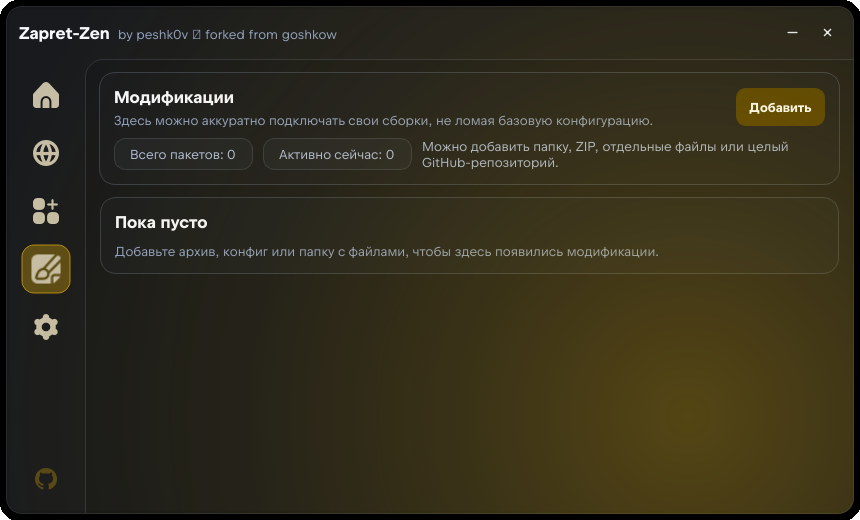
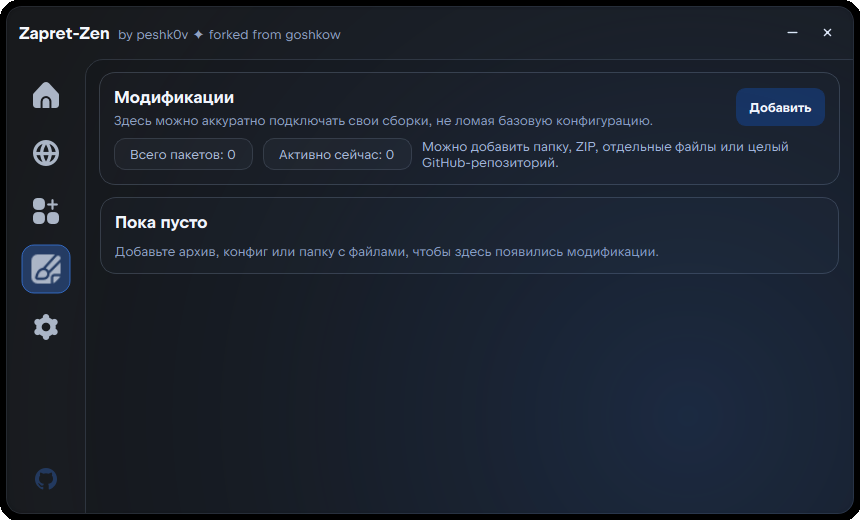
Исправлен баг с tg-ws-proxy и немного изменён README.md

diff --git a/scripts/take_screenshots.py b/scripts/take_screenshots.py
@@ -51,7 +51,7 @@ def main():
         return 1
 
     ctx.backend = None
-    ctx.settings.update(theme="light")
+    ctx.settings.update(theme="light", accent_color="#3b82f6")
 
     print("Creating MainWindow...")
     from zapret_zen.ui.main_window import MainWindow
@@ -97,8 +97,12 @@ def main():
             return
         theme = theme_queue.pop()
         print(f"\n=== Theme: {theme} ===")
-        ctx.settings.update(theme=theme)
+        ctx.settings.update(theme=theme, accent_color="#3b82f6")
         window._apply_theme()
+        if hasattr(window, "_pages_host") and window._pages_host is not None:
+            window._pages_host.set_accent_color("#3b82f6")
+        if hasattr(window, "power_button") and window.power_button is not None:
+            window.power_button.set_power_theme(theme, "#3b82f6")
         page_queue.extend([(idx, name, theme) for idx, name in reversed(PAGES)])
         QTimer.singleShot(500, capture_next)
 
@@ -112,6 +116,10 @@ def main():
         QTimer.singleShot(1000, lambda n=name, t=theme: do_capture(n, t))
 
     def do_capture(name, theme):
+        if name == "dashboard" and hasattr(window, "power_button"):
+            window.power_button.setProperty("state", "on")
+            window.power_button.set_active_state(True, animate=False)
+            window.power_button.set_power_theme(theme, "#3b82f6")
         QCoreApplication.processEvents()
         try:
             img = grab_pil(window)
@@ -123,6 +131,9 @@ def main():
             import traceback
             print(f"    Error: {e}")
             traceback.print_exc()
+        if name == "dashboard" and hasattr(window, "power_button"):
+            window.power_button.setProperty("state", "off")
+            window.power_button.set_active_state(False, animate=False)
         QTimer.singleShot(200, capture_next)
 
     print("Showing window...")

diff --git a/src/zapret_zen/services/settings.py b/src/zapret_zen/services/settings.py
@@ -116,6 +116,16 @@ class SettingsManager:
             settings.selected_runtime_mode = "zapret"
             changed = True
 
+        dc_ip_raw = str(settings.tg_proxy_dc_ip or "").strip()
+        dc_ips_present = set()
+        for part in dc_ip_raw.replace("\n", ",").split(","):
+            token = part.strip()
+            if token and ":" in token:
+                dc_ips_present.add(token.split(":")[0])
+        if "2" not in dc_ips_present and "4" in dc_ips_present:
+            settings.tg_proxy_dc_ip = "2:149.154.167.220\n4:149.154.167.220"
+            changed = True
+
         selected_service_ids = raw.get("selected_service_ids", [])
         if not isinstance(selected_service_ids, list):
             settings.selected_service_ids = []

diff --git a/src/zapret_zen/domain/models.py b/src/zapret_zen/domain/models.py
@@ -36,7 +36,7 @@ class AppSettings:
     tg_proxy_host: str = "127.0.0.1"
     tg_proxy_port: int = 1443
     tg_proxy_secret: str = ""
-    tg_proxy_dc_ip: str = "4:149.154.167.220"
+    tg_proxy_dc_ip: str = "2:149.154.167.220\n4:149.154.167.220"
     tg_proxy_cfproxy_enabled: bool = True
     tg_proxy_cfproxy_priority: bool = True
     tg_proxy_cfproxy_domain: str = ""

diff --git a/README.md b/README.md
@@ -19,8 +19,6 @@
 
 </div>
 
----
-
 ## 🖼 Скриншоты
 
 <div align="center">
@@ -51,6 +49,18 @@
 
 ---
 
+## 🧩 Доверенные моды сообщества
+
+Готовые модификации для Zapret-Zen от сообщества: обход блокировок Minecraft, Roblox, SoundCloud, Canva и других сервисов.
+
+> Подробная инструкция по установке, созданию и публикации собственных модов — в **[документации по модам](https://github.com/peshk0v/Zapret-Zen/wiki/%D0%9C%D0%BE%D0%B4%D0%B8%D1%84%D0%B8%D0%BA%D0%B0%D1%86%D0%B8%D0%B8#13-доверенные-каталоги-модов-от-сообщества)**.
+
+<a href="https://github.com/peshk0v/Zapret-Mods/releases/latest">
+  <img src="https://img.shields.io/badge/Скачать_моды-Zapret--Mods-fc428?style=for-the-badge&logo=github" alt="Скачать моды" />
+</a>
+
+---
+
 ## 💻 Установка
 
 ### 📦 Портативная версия (Рекомендуется)
@@ -66,75 +76,13 @@
 
 ---
 
-## 🛠 Разработка и сборка
+## 🛠 Вики для разработчиков
 
-### Системные требования
-* **Python**: `3.11+`
-* **ОС**: Windows 10 / 11
+У проекта есть *полноценный* wiki, в котором подробно расписаны детали для разработки проекта.
 
-### 1. Настройка окружения
-
-```powershell
-# Создание и активация виртуального окружения
-python -m venv .venv
-.\.venv\Scripts\Activate.ps1
-
-# Установка зависимостей разработчика
-pip install -e .[dev]
-
-```
-
-### 2. Запуск из исходников
-
-```powershell
-.\.venv\Scripts\python.exe -m zapret_zen.main
-
-```
-
-### 3. Сборка Portable-версии
-
-```powershell
-.\.venv\Scripts\python.exe scripts\sync_app_icon.py
-.\.venv\Scripts\pyinstaller.exe packaging/zapret_zen.spec --distpath dist_pyinstaller --workpath build_pyinst --noconfirm
-
-```
-
-### 4. Сборка Инсталлятора
-
-```powershell
-# Формирование payload-архива
-$tempDir = Join-Path $env:TEMP "zapretzen_payload"
-$payloadRoot = Join-Path $tempDir "zapret_zen"
-Copy-Item -LiteralPath dist_pyinstaller\zapret_zen -Destination $payloadRoot -Recurse -Force
-Compress-Archive -Path (Join-Path $tempDir "*") -DestinationPath installer_payload\win_x64.zip -CompressionLevel Optimal -Force
-Remove-Item $tempDir -Recurse -Force
-
-# Компиляция инсталлятора
-.\.venv\Scripts\pyinstaller.exe packaging/install_zapretzen.spec --distpath dist_installer --workpath build_installer --noconfirm
-```
-
----
-
-## 📁 Структура проекта
-
-```text
-Zapret-Zen/
-├── assets/           # Графические ресурсы для документации
-├── configs/          # Пользовательские конфиги и переопределения правил
-├── data/             # Состояние приложения (настройки, профили, кэш)
-├── installer/        # Исходный код мастера установки
-├── mods/             # Установленные моды сообщества
-├── packaging/        # Файлы конфигурации .spec для PyInstaller
-├── runtime/          # Встроенные бинарники (zapret, tg-ws-proxy, dns-manager)
-├── scripts/          # Вспомогательные скрипты сборки и утилиты
-├── src/zapret_zen/   # Исходный код приложения
-│   ├── domain/       # Модели данных (настройки, компоненты, сервисы)
-│   ├── services/     # Бизнес-логика, интеграции и бэкенд
-│   └── ui/           # Графический интерфейс на PySide6
-├── themes/           # JSON-файлы оформления тем
-└── ui_assets/        # Иконки (Flaticon), шрифты, логотипы
-
-```
+<a href="https://github.com/peshk0v/Zapret-Zen/wiki">
+  <img src="https://img.shields.io/badge/Открыть_Wiki-Zapret--Zen-2ea44f?style=for-the-badge&logo=github" alt="GitHub Wiki" />
+</a>
 
 ---
 
